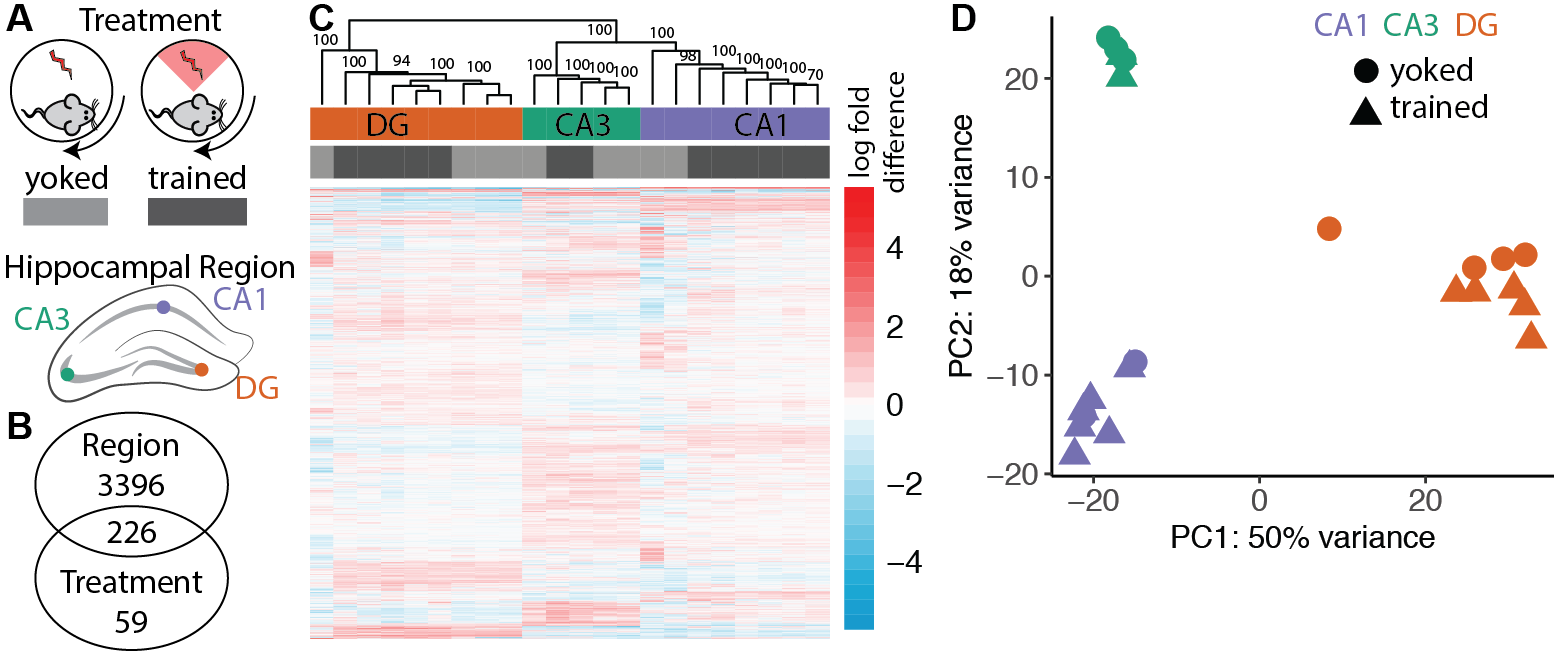
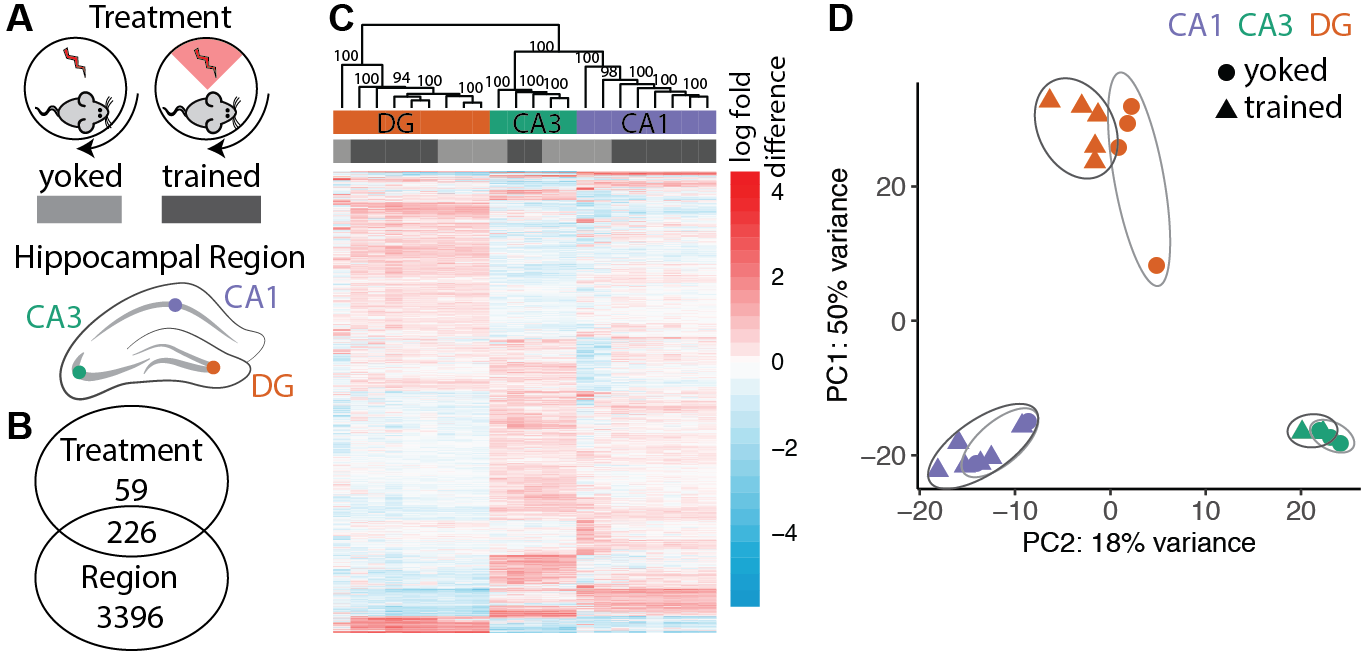
better analysis

diff --git a/markdownfiles/03_CognitionTest.md b/markdownfiles/03_CognitionTest.md
@@ -8,7 +8,9 @@ delivered to the yoked mice mimicked the time series of shocks received
 by the trained mice that were being conditioned to avoid localized, mild
 shocks. While the trained and yoked animals received the same number of
 shocks, only the trained animals exhibitied an avoidance response
-(Supplementary figure. Use 'include=TRUE' to view).
+(Supplementary figures showing the number of shocks and the avoidance
+behaviors can be viewed by using 'include=TRUE' in the corresponding Rmd
+file).
 
 ### Biological samples
 
@@ -38,7 +40,7 @@ analysis. RNA quality was checked using the bioinformatic program FASTQC
 the program Cutadapt (Martin, 2011). Kallisto was use for fast read
 mapping and counting (Bray et al., 2016). Transcript from a single gene
 were combined into a count total for each gene. In the end, we meausred
-the expression of 22,485 genes in 20 samples.
+the expression of 22,485 genes in 22 samples.
 
     dim(countData)
 
@@ -51,7 +53,7 @@ We used DESeq2 for gene expression normalization and quantification
 the interaction with the formal
 `design = ~ Treatment + Region + Treatment * Region`. After removing
 genes with less than 2 counts across all samples, we were left with
-16,847 genes.
+16,970 genes.
 
     dds
 
@@ -71,84 +73,20 @@ the hippocampal subfields. Hierarchical clustering of the differentially
 expressed genes separates samples by both subfield and treatment (Fig.
 3C).
 
-Now, we can view a histogram of the distribution
-
-![](../figures/03_cognitiontest/histogram-1.png)
-
-    ## [1] 1
-
-![](../figures/03_cognitiontest/histogram-2.png)
-
-    ## [1] 1
-
-![](../figures/03_cognitiontest/histogram-3.png)
-
-    ## [1] 1
-
-![](../figures/03_cognitiontest/histogram-4.png)
-
-    ## [1] 1
-
 This Venn Diagram sthe overlap of differentailly expression genes by
-Region and method. This shows all genes with *adjusted* pvalue &lt;0.1.
+Region and method. This shows all genes with adjusted pvalue according
+to the set pvalue.
 
 ![](../figures/03_cognitiontest/VennDiagramPadj-1.png)
 
-Heatmaps
-
-    ## Any padj <0.1
-    DEGes <- assay(rld)
-    DEGes <- cbind(DEGes, contrast1, contrast2, contrast3, contrast4)
-    DEGes <- as.data.frame(DEGes) # convert matrix to dataframe
-    DEGes$rownames <- rownames(DEGes)  # add the rownames to the dataframe
-
-    DEGes$padjmin <- with(DEGes, pmin(padjTreatmenttrainedyoked, padjRegionCA1DG ,padjRegionCA3DG, padjRegionCA1CA3 )) # put the min pvalue in a new column
-    DEGes <- DEGes %>% filter(padjmin < 0.1)
-
-    rownames(DEGes) <- DEGes$rownames
-    drop.cols <-colnames(DEGes[,grep("padj|pval|rownames", colnames(DEGes))])
-    DEGes <- DEGes %>% select(-one_of(drop.cols))
-    DEGes <- as.matrix(DEGes)
-    DEGes <- DEGes - rowMeans(DEGes)
-
-
-    # setting color options
-    source("figureoptions.R")
-    ann_colors <- ann_colorsbehavior
-    colorpalette <- cembrowskicolors
-    df <- as.data.frame(colData(dds)[,c("Treatment", "Region")])
-    paletteLength <- 30
-    myBreaks <- c(seq(min(DEGes), 0, length.out=ceiling(paletteLength/2) + 1), 
-                  seq(max(DEGes)/paletteLength, max(DEGes), length.out=floor(paletteLength/2)))
-
-
-    pheatmap(DEGes, show_colnames=F, show_rownames = F,
-             annotation_col=df, annotation_colors = ann_colors,
-             fontsize = 12, fontsize_row = 7, 
-             cellwidth = 10, 
-             border_color = "grey60" ,
-             color = colorpalette,
-             clustering_distance_cols="correlation" ,
-             breaks=myBreaks,
-             clustering_method="average"
-             )
+Then, we visuazlied the data as a heatmap showing the relative log fold
+change of gene expression across samples. Genes were filtered for a
+minimimum adjust p value &lt; 0.1 in any two-way contrast. The row mean
+for each gene was subtracted for the raw value to allow for analysis of
+fold change rather than raw magnitudes. The samples cluster primarily by
+brain region with some small treatment-driven.
 
 ![](../figures/03_cognitiontest/HeatmapPadj-1.png)
-
-    # for adobe
-    pheatmap(DEGes, show_colnames=F, show_rownames = F,
-             annotation_col=df, annotation_colors = ann_colors,
-             treeheight_row = 0, treeheight_col = 25,
-             fontsize = 8, 
-             width=4.5, height=3,
-             border_color = "grey60" ,
-             color = colorpalette,
-             cellwidth = 6, 
-             filename = "../figures/03_cognitiontest/HeatmapPadj-1.pdf",
-             clustering_distance_cols="correlation" ,
-             breaks=myBreaks,
-             clustering_method="average"
-             )
 
 Then, we used pvclust to obtain bootstrap values for the heatmap sample
 dendrogram.
@@ -165,6 +103,9 @@ dendrogram.
     FALSE Bootstrap (r = 1.4)... Done.
 
 ![](../figures/03_cognitiontest/pvclust-1.png)
+
+(Supplementary figures showing the distibution of pvalues can be viewed
+by using 'include=TRUE' in the corresponding Rmd file).
 
 ### Analysis of variance
 
@@ -284,3 +225,6 @@ F1,18=12.01; p = 0.00276).
     FALSE Residuals   20  769.5    38.5                  
     FALSE ---
     FALSE Signif. codes:  0 '***' 0.001 '**' 0.01 '*' 0.05 '.' 0.1 ' ' 1
+
+The gene expression data were exported to csv files for importing into
+the GOMMU analysis package for subsequent analysis.
